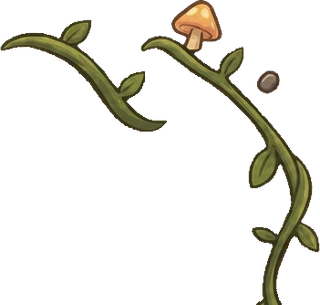
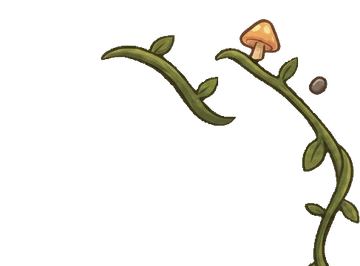
feat: 게임 방법 팻말에 안내 문구·팻말 버튼, 귀퉁이 정렬·1.2배, 폼 판 크기 고정
게임 방법 창
- 팻말에 세 줄을 새겼다 — HOW TO PLAY / 카드 뽑기 → 행동 하기 / 이 두 번이면 끝.
  판 안 첫 줄에 두면 팻말 바로 아래라 머리말이 두 개인 꼴이었다.
  .howto-title-text가 판자의 안쪽 홈(폭 74% / 높이 62%)에만 앉는다 — 넘으면 마구리와
  잎에 글자가 묻힌다
- "이해했어요!"를 PlankButton으로 바꿔 로비·대기실의 다른 버튼들과 맞췄다
- 귀퉁이 크기 1.2배(--howto-orn 132 → 190px, 모바일 84 → 121px)

⚠ 귀퉁이를 각자 내용 경계상자로 바짝 자르면 위쪽 둘의 높이가 어긋난다. 조각마다 크기가
달라지고 원본에서의 상대 위치가 사라지기 때문이다. 넷을 모서리 기준 오프셋을 보존한
공유 캔버스(360×266)로 다시 뽑아 해결했다 — background-size 하나로 넷이 함께 움직인다.
그 대신 캔버스에 빈 여백이 들어 있어 같은 폭이라도 잎이 작게 보이므로, 190px은
그 몫(360/299)에 1.2배를 곱한 값이다.

로비 폼 — 판 크기 고정
max-height만 두면 규칙을 펼칠 때 카드가 405 → 558px로 눈에 띄게 자란다. 높이를 아예
못박아 펼쳐도 판이 1px도 움직이지 않고 스크롤바만 생기게 했다.

⚠ height: 100%로는 안 됐다. 액자(::before)는 카드 상자 밖으로 --board-mt/mb만큼 더
그려진다(원본 PNG의 투명 여백 보정). 카드가 여백을 꽉 채우니 그 몫이 넘쳐 .stage-form에
스크롤바가 생겼다 — 실측 scrollHeight 600 vs clientHeight 590, 정확히 그 차이였다.
calc(100% - var(--board-mt) - var(--board-mb))로 미리 뺀다. 두 값 모두 --board-edge에
비례하므로 액자 두께를 바꿔도 따라온다.

눈으로는 못 찾았다. 실측이 "폼스크롤 YES"를 낸 뒤 세 상자의 client·offset·rect·zoom을
직접 찍어보고서야 액자 오버행이 범인이라는 것이 드러났다.

검증: 실측이 전부 한 값으로 모였다 — 502(1280) / 617(1920) / 517(390). 여섯 칸이 모두
같다는 것이 판이 고정됐다는 증거다. 3뷰포트×7단계 문제 0건(.stage-form 넘침 0).
방 만들기 접힘/펼침에서 판 크기가 완전히 같음을 1440·390에서 재 확인(스크롤 플래그만
false → true). 게임 방법 창도 두 화면에서 열어 확인. 서버 테스트 63/63, 빌드·타입검사 통과.

Changed region(s): [[0.0, 0.0, 1.0, 1.0]]

diff --git a/client/components/ui/HowToPlayModal.tsx b/client/components/ui/HowToPlayModal.tsx
@@ -3,6 +3,7 @@
 import { THRESHOLDS } from 'shared';
 import { SKILL_COLOR } from '@/lib/skillInfo';
 import { LOBBY_ASSETS } from '@/lib/lobbyAssets';
+import { PlankButton } from '@/components/ui/PlankButton';
 import type { Animal } from 'shared';
 
 // ─────────────────────────────────────────────────────────────
@@ -146,15 +147,25 @@ export function HowToPlayModal({ onClose }: { onClose: () => void }) {
           ['--howto-tr' as string]: `url(${LOBBY_ASSETS.howtoCornerTR})`,
           ['--howto-bl' as string]: `url(${LOBBY_ASSETS.howtoCornerBL})`,
           ['--howto-br' as string]: `url(${LOBBY_ASSETS.howtoCornerBR})`,
-          ['--howto-title-w' as string]: 'clamp(220px, 34vw, 380px)',
+          ['--howto-title-w' as string]: 'clamp(300px, 46vw, 560px)',
         }}
         onClick={e => e.stopPropagation()}
       >
-        {/* 제목 팻말 — 판 윗변 한가운데에 걸친다 */}
+        {/* 제목 팻말 — 판 윗변 한가운데에 걸치고, "내 차례에 할 일은 딱 두 번"까지
+            여기에 함께 새긴다. 예전에는 이 문구가 판 안 첫 줄에 있었는데, 팻말 바로
+            아래라 두 덩어리가 따로 노는 머리말이 두 개인 꼴이었다. */}
         <div className="howto-title">
-          <span className="font-black tracking-[0.18em] text-[clamp(0.9rem,2.2vw,1.5rem)] text-[#f6e6c8] drop-shadow-[0_2px_2px_rgba(60,38,20,0.85)]">
-            HOW TO PLAY
-          </span>
+          <div className="howto-title-text">
+            <span className="block font-black tracking-[0.18em] text-[clamp(0.62rem,1.35vw,0.95rem)] text-[#f0dcb4]">
+              HOW TO PLAY
+            </span>
+            <span className="block font-black leading-tight text-[clamp(0.95rem,2.3vw,1.6rem)] text-[#fdf3dd]">
+              카드 뽑기 <span className="text-[#e8c98d]">→</span> 행동 하기
+            </span>
+            <span className="block font-bold leading-tight text-[clamp(0.6rem,1.3vw,0.92rem)] text-[#f0dcb4]">
+              이 두 번이면 내 차례 끝! 🎉
+            </span>
+          </div>
         </div>
 
         <button
@@ -167,17 +178,8 @@ export function HowToPlayModal({ onClose }: { onClose: () => void }) {
           ✕
         </button>
 
+        {/* 머리말은 위 팻말로 올라갔다 — 여기서는 곧바로 네 단계로 들어간다 */}
         <div className="howto-scroll [&>*]:shrink-0">
-        {/* ── 포스터 머리말 — "내 차례에 할 일은 딱 두 번"을 가장 먼저 못박는다 ── */}
-        <header className="text-center pb-4">
-          <div className="flex items-center justify-center gap-3 flex-wrap text-2xl sm:text-3xl font-black">
-            <span className="board-panel text-board-ink px-5 py-2">카드 뽑기</span>
-            <span className="text-board-muted">→</span>
-            <span className="board-panel text-board-ink px-5 py-2">행동 하기</span>
-          </div>
-          <p className="text-board-ink text-lg font-black mt-3">이 두 번이면 내 차례 끝! 🎉</p>
-        </header>
-
         <div className="grid gap-6 lg:grid-cols-3 lg:items-stretch">
           {/* ── 1. 장소를 고른다 ── */}
           <Step no={1} title="장소를 고른다">
@@ -299,13 +301,12 @@ export function HowToPlayModal({ onClose }: { onClose: () => void }) {
             </div>
           </Step>
 
-          <div className="lg:col-span-3">
-            <button
-              onClick={onClose}
-              className="w-full bg-jungle-600 hover:bg-jungle-700 text-white font-black text-xl rounded-2xl py-4 transition-colors"
-            >
+          {/* 로비·대기실의 다른 버튼들과 같은 나무 팻말. 판이 글자 길이를 따라 늘어나므로
+              폭을 가운데로 모으고 상한을 둔다 — 3열 전체를 채우면 팻말이 지나치게 길어진다. */}
+          <div className="lg:col-span-3 flex justify-center">
+            <PlankButton onClick={onClose} className="text-xl px-8" style={{ maxWidth: '26rem' }} block>
               이해했어요! 🎮
-            </button>
+            </PlankButton>
           </div>
         </div>
         </div>

diff --git a/client/app/globals.css b/client/app/globals.css
@@ -2784,8 +2784,18 @@ body {
 
      ⚠ `--form-zoom`으로 나누지 말 것. 요즘 Chrome의 `zoom`은 **퍼센트를 이미 확대분만큼
      보정해서** 해석한다 — 한 번 더 나눴더니 카드가 배율만큼(1.35배) 작아져, 스테이지
-     550px 자리에 413px짜리 카드가 떠 있었다. */
-  max-height: 100%;
+     550px 자리에 413px짜리 카드가 떠 있었다.
+
+     `max-height`가 아니라 `height`인 이유 — 상한만 두면 규칙을 펼칠 때 카드가 405 → 558px로
+     **눈에 띄게 자란다.** 판 크기는 규칙을 펼치든 접든 그대로여야 하고, 넘치는 만큼은
+     스크롤바만 생겨야 한다. 그래서 아예 스테이지 높이에 못박는다.
+
+     ⚠ 100%를 그대로 쓰면 안 된다 — **액자(::before)는 카드 상자 밖으로 --board-mt/mb만큼
+     더 그려진다**(원본 PNG의 투명 여백을 보정하느라). 카드가 여백을 꽉 채우면 그 몫이
+     .stage-form을 넘겨 스크롤바가 생긴다(실측: 스크롤 600 vs 화면 590 = 정확히 그 차이).
+     그래서 위아래 보정분을 미리 빼둔다. 두 값 모두 --board-edge에 비례하므로 액자 두께를
+     바꿔도 따라온다. */
+  height: calc(100% - var(--board-mt) - var(--board-mb));
   display: flex;
   flex-direction: column;
   gap: 0.75rem;
@@ -2872,7 +2882,10 @@ body {
 .howto-board {
   --howto-slice: 110;
   --howto-edge: 46px;
-  --howto-orn: 132px;
+  /* 귀퉁이 그림은 **모서리 기준 오프셋을 보존한 공유 캔버스**(487×360 원본 → 360×266)라,
+     그림 안에 빈 여백이 함께 들어 있다. 그래서 같은 폭이라도 잎 덩어리는 예전(내용을 바짝
+     자른 320px 그림)보다 작게 보인다 — 그 몫(360/299)에 요청받은 1.2배를 곱해 190px이다. */
+  --howto-orn: 190px;
   --howto-overhang: 8px;
   position: relative;
   isolation: isolate;
@@ -2927,6 +2940,20 @@ body {
   justify-content: center;
   pointer-events: none;
 }
+/* 팻말에 새기는 세 줄(HOW TO PLAY / 카드 뽑기 → 행동 하기 / 이 두 번이면 끝).
+   판자 그림의 **안쪽 홈**에만 앉아야 한다 — 좌우로는 마구리(둥근 끝)와 잎이, 위아래로는
+   테두리가 있어 그 위로 넘어가면 글자가 나뭇결에 묻힌다. 폭 74% / 높이 62%가 그 홈이다. */
+.howto-title-text {
+  width: 74%;
+  height: 62%;
+  display: flex;
+  flex-direction: column;
+  align-items: center;
+  justify-content: center;
+  text-align: center;
+  gap: 0.12em;
+  text-shadow: 0 2px 2px rgba(60, 38, 20, 0.85);
+}
 /* 창 안에서 실제로 스크롤하는 부분 — 액자·팻말·귀퉁이는 제자리에 남는다 */
 .howto-scroll {
   flex: 1;
@@ -2936,7 +2963,7 @@ body {
 @media (max-width: 767px) {
   .howto-board {
     --howto-edge: 26px;
-    --howto-orn: 84px;
+    --howto-orn: 121px;   /* 위와 같은 환산(84 × 360/299 × 1.2) */
     --howto-overhang: 4px;
   }
 }

diff --git a/NEXT_SESSION.md b/NEXT_SESSION.md
@@ -180,13 +180,13 @@ upstream의 로비 기능을 이 구조 위에 이식했습니다. 자세한 경
 | 로비 실측 3뷰포트 × 7단계 | 폼 스크롤·페이지 스크롤·화면 이탈 **모두 없음**, 콘솔 에러 없음 |
 | 관전자 스모크(방 만들기→초대 링크로 관전 참가→채팅) | 정상. 시작이 "관전자는 인원에 들어가지 않아요"로 올바르게 막힘 |
 
-로비 실측 기준값 — **폼에 항목을 추가했다면 이 값과 대조하세요.** (2026-09-08 기준 — 규칙 펼침이 **카드 안쪽 스크롤**로 바뀐 뒤)
+로비 실측 기준값 — **폼에 항목을 추가했다면 이 값과 대조하세요.** (2026-09-08 기준 — 판 크기 고정 + 카드 안쪽 스크롤)
 
 | 뷰포트 | 안전영역 | 싱글+규칙 | 방 만들기+규칙 | 방 만들기+충돌 | 방 만들기+관전 | 참가+초대 |
 | --- | --- | --- | --- | --- | --- | --- |
-| 1280×900 | 738×628 | 484×558 | 484×558 | 484×558 | 484×558 | 484×521 |
-| 1920×1080 | 885×754 | 573×683 | 573×683 | 573×683 | 573×683 | 573×616 |
-| 390×844 | 371×589 | 358×538 | 358×538 | 358×538 | 358×538 | 358×374 |
+| 1280×900 | 738×628 | 484×502 | 484×502 | 484×502 | 484×502 | 484×502 |
+| 1920×1080 | 885×754 | 573×617 | 573×617 | 573×617 | 573×617 | 573×617 |
+| 390×844 | 371×589 | 358×517 | 358×517 | 358×517 | 358×517 | 358×517 |
 
 > **방 만들기 세 값(규칙·충돌·관전)이 모두 같아야 합니다.** 충돌 경고와 관전자 안내가
 > 둘 다 설명 줄을 갈아끼우기만 하므로 높이가 늘지 않는다는 뜻입니다. 하나라도 커졌다면
@@ -212,14 +212,17 @@ upstream의 로비 기능을 이 구조 위에 이식했습니다. 자세한 경
 > 전체가 몇 px 움직이므로(방 만들기 404 → 405), **글꼴을 다시 바꾸면 이 표를 반드시
 > 다시 재야 합니다.**
 >
-> ⚠ **규칙을 펼치면 카드가 자라지 않고 "스테이지 높이에서 멈춘 뒤 안쪽이 스크롤"합니다.**
-> 그래서 펼친 세 줄이 뷰포트마다 **같은 값**(558 / 683 / 538)으로 고정돼 있습니다 —
-> 그 값이 곧 그 화면에서 카드가 가질 수 있는 최대 높이입니다.
+> ⚠ **판 크기는 고정입니다 — 규칙을 펼치든 접든, 어느 폼이든 한 화면에서는 같은 값입니다.**
+> 그래서 표의 여섯 칸이 뷰포트마다 전부 같습니다(502 / 617 / 517). 펼치면 카드가 자라는
+> 대신 **안쪽(`.lobby-form-scroll`)에 스크롤바만** 생깁니다.
 >
-> 2026-09-08 오후까지는 카드가 세로로 자라고 `.stage-form`이 통째로 스크롤했는데(849·1003·621),
-> 그러면 **나무 액자까지 함께 밀려 올라가** 판이 화면 밖으로 나갔습니다. 지금은
-> `.lobby-form-board`가 `max-height: 100%`로 멈추고 `.lobby-form-scroll`이 안에서 스크롤합니다.
-> `measureLobby.mjs`는 그 라벨에서 폼 스크롤을 `yes(정상)`으로 표시합니다.
+> 2026-09-08 오후까지는 카드가 세로로 자라고 `.stage-form`이 통째로 스크롤했는데
+> (849·1003·621), 그러면 **나무 액자까지 함께 밀려 올라가** 판이 화면 밖으로 나갔습니다.
+>
+> ⚠ 카드 높이는 `100%`가 아니라 **`calc(100% - var(--board-mt) - var(--board-mb))`** 입니다.
+> 액자(`::before`)가 카드 상자 **밖으로** 그만큼 더 그려지기 때문입니다(원본 PNG의 투명
+> 여백 보정). `100%`로 뒀더니 그 몫이 넘쳐 `.stage-form`이 스크롤했습니다
+> (실측: scrollHeight 600 vs clientHeight 590 = 정확히 그 차이).
 >
 > 진짜 상한은 **규칙을 접은 상태**입니다 — `join+invite`(규칙이 없는 폼)가 그 대표이고,
 > 그쪽에 스크롤이 생기면 실제 문제입니다.
@@ -480,15 +483,35 @@ DOM 순서가 그대로라 화면의 차례도 예전과 같습니다(닉네임 
 > ⚠ **닫기(✕)는 나무테 위에 앉으므로 밝은 색이어야 합니다.** 양피지용 갈색
 > (`text-board-muted`)으로 뒀더니 어두운 나무에 묻혀 보이지 않았습니다.
 
-**그리고 규칙을 펼쳤을 때 카드가 자라지 않습니다.** `.lobby-form-board`가 `max-height: 100%`로
-스테이지 높이에서 멈추고, 새로 만든 `.lobby-form-scroll`이 그 안에서 스크롤합니다. 제출 버튼은
-스크롤 밖에 둬서 규칙을 끝까지 내리지 않아도 늘 눌립니다.
+**그리고 판 크기가 고정입니다.** `.lobby-form-board`의 높이를 스테이지에 못박고, 새로 만든
+`.lobby-form-scroll`이 그 안에서 스크롤합니다. 규칙을 펼쳐도 판은 1px도 움직이지 않고
+스크롤바만 생깁니다. 제출 버튼은 스크롤 밖에 둬서 규칙을 끝까지 내리지 않아도 늘 눌립니다.
 
-> ⚠ **`max-height`를 `--form-zoom`으로 나누지 마세요.** 요즘 Chrome의 `zoom`은 퍼센트를
-> 이미 확대분만큼 보정해 해석합니다 — 한 번 더 나눴더니 카드가 배율만큼(1.35배) 작아져,
+> ⚠ **높이를 `--form-zoom`으로 나누지 마세요.** 요즘 Chrome의 `zoom`은 퍼센트를 이미
+> 확대분만큼 보정해 해석합니다 — 한 번 더 나눴더니 카드가 배율만큼(1.35배) 작아져,
 > 550px 자리에 413px짜리 카드가 떠 있었습니다.
 
+> ⚠ **`100%`가 아니라 `calc(100% - var(--board-mt) - var(--board-mb))`입니다.** 액자가 카드
+> 상자 밖으로 그만큼 더 그려지므로, 꽉 채우면 그 몫이 넘쳐 스크롤바가 생깁니다.
+
 > ⚠ 스크롤 컨테이너의 자식에는 `shrink-0`이 필요합니다(§2-9와 같은 함정).
+
+### 2-15. 게임 방법 창 다듬기 (2026-09-08 밤, 2차)
+
+| 항목 | 내용 |
+| --- | --- |
+| 팻말 문구 | "카드 뽑기 → 행동 하기 / 이 두 번이면 내 차례 끝!"을 **팻말 안으로** 올렸습니다. 판 안 첫 줄에 두면 팻말 바로 아래라 머리말이 두 개인 꼴이었습니다 |
+| 팻말 글자 자리 | `.howto-title-text`가 판자의 **안쪽 홈**(폭 74% / 높이 62%)에만 앉습니다 — 넘으면 마구리와 잎에 글자가 묻힙니다 |
+| 닫기 버튼 | `PlankButton`("이해했어요! 🎮")으로 교체 |
+| 귀퉁이 정렬 | 네 조각을 **모서리 기준 오프셋을 보존한 공유 캔버스**(360×266)로 다시 잘랐습니다 |
+| 귀퉁이 크기 | 1.2배 — `--howto-orn` 132 → **190px**(모바일 84 → 121) |
+
+> ⚠ **귀퉁이를 각자 내용 경계상자로 바짝 자르면 안 됩니다.** 조각마다 크기가 달라지고
+> 원본에서 서로 얼마나 떨어져 있었는지가 사라져 **위쪽 둘의 높이가 어긋납니다**(실제로
+> 그렇게 보였습니다). 지금은 넷이 같은 캔버스라 `background-size` 하나로 함께 움직입니다.
+>
+> 그 대신 그림 안에 빈 여백이 함께 들어 있어, 같은 폭이라도 잎 덩어리는 예전보다 작게
+> 보입니다 — `--howto-orn` 190px은 그 몫(360/299)에 1.2배를 곱한 값입니다.
 
 ---
 

diff --git a/HANDOVER.md b/HANDOVER.md
@@ -906,7 +906,52 @@ NODE_ENV=production NEXT_DIST_DIR=.next-verify PORT=3300 \
 열어 확인했다(판이 화면 안, 팻말이 윗변에 정확히 절반씩, 바깥 스크롤 없음).
 서버 테스트 63/63, 서버·클라이언트 빌드, 루트 `tsc` 통과.
 
-## 17. 작업 기록
+## 17. 판 크기 고정 · 게임 방법 창 다듬기 (2026-09-08 밤, 2차)
+
+### 판 크기를 못박았다 — 펼쳐도 1px도 안 움직인다
+
+§16에서 `max-height: 100%`로 "스테이지를 넘지 않게"만 했는데, 그러면 규칙을 펼칠 때 카드가
+405 → 558px로 **눈에 띄게 자란다.** 요청대로 아예 높이를 고정해, 펼치면 스크롤바만 생기게 했다.
+
+> ⚠ **`height: 100%`로는 안 됐다.** 액자(`::before`)는 카드 상자 **밖으로**
+> `--board-mt`/`--board-mb`만큼 더 그려진다(원본 PNG의 투명 여백을 보정하느라). 카드가
+> 여백을 꽉 채우니 그 몫이 넘쳐 `.stage-form`에 스크롤바가 생겼다 —
+> **실측 scrollHeight 600 vs clientHeight 590, 정확히 그 차이였다.**
+> 그래서 `calc(100% - var(--board-mt) - var(--board-mb))`로 미리 빼둔다. 두 값 모두
+> `--board-edge`에 비례하므로 액자 두께를 바꿔도 따라온다.
+
+이 값을 눈으로는 못 찾았다. 실측이 "폼스크롤 YES"를 낸 뒤 `.stage-form`/`.lobby-form-wrap`/
+`.lobby-form-board`의 client·offset·rect·zoom을 직접 찍어보고서야 액자 오버행이 범인이라는
+것이 드러났다. **이런 종류는 추측하지 말고 세 상자를 한 번에 찍어볼 것.**
+
+실측이 전부 한 값으로 모였다 — 502(1280) / 617(1920) / 517(390). 여섯 칸이 모두 같다는 것이
+"판이 고정됐다"는 증거다.
+
+### 게임 방법 창
+
+- **팻말에 세 줄을 새겼다** — HOW TO PLAY / 카드 뽑기 → 행동 하기 / 이 두 번이면 끝.
+  판 안 첫 줄에 두면 팻말 바로 아래라 머리말이 두 개인 꼴이었다. `.howto-title-text`가
+  판자의 **안쪽 홈**(폭 74% / 높이 62%)에만 앉는다 — 넘으면 마구리와 잎에 글자가 묻힌다
+- **"이해했어요!"를 `PlankButton`으로** 바꿔 로비·대기실의 다른 버튼들과 맞췄다
+- **귀퉁이 넷을 다시 잘랐다** — 아래 참고
+- 귀퉁이 크기 1.2배(`--howto-orn` 132 → 190px, 모바일 84 → 121px)
+
+> ⚠ **귀퉁이를 각자 내용 경계상자로 바짝 자르면 위쪽 둘의 높이가 어긋난다.** 조각마다
+> 크기가 달라지고 원본에서의 상대 위치가 사라지기 때문이다. 넷을 **모서리 기준 오프셋을
+> 보존한 공유 캔버스**(360×266)로 다시 뽑아 해결했다 — `background-size` 하나로 넷이 함께
+> 움직인다. 자세한 방법은 [`client/public/ui/README.md`](client/public/ui/README.md).
+>
+> 캔버스에 빈 여백이 함께 들어 있어 **같은 폭이라도 잎이 예전보다 작게 보인다.**
+> 190px은 그 몫(360/299)에 1.2배를 곱한 값이다.
+
+### 검증
+
+로비 실측 3뷰포트 × 7단계 **문제 0건**(`.stage-form` 넘침 0). 방 만들기 접힘/펼침에서 판
+크기가 완전히 같음을 1440·390에서 실제로 재 확인했다(484×593 → 484×593, 358×538 → 358×538,
+스크롤 플래그만 false → true). 게임 방법 창도 두 화면에서 열어 확인했다.
+서버 테스트 63/63, 서버·클라이언트 빌드, 루트 `tsc` 통과.
+
+## 18. 작업 기록
 
 - `NEXT_SESSION.md` — 새 환경에서 이어받기 위한 환경 구성·현황·다음 할 일
 - `LOBBY_REDESIGN.md` — 설계안 v1/v2, 애니메이션 원칙, 실측 결과, 시행착오

diff --git a/client/public/ui/README.md b/client/public/ui/README.md
@@ -176,7 +176,19 @@ flood fill로 지웠다(글로우 최대치가 110 남짓이라 안전하게 갈
 > 찍혀 있어 그냥 자르면 세로가 488px로 두 배가 됐다. 잎은 팻말에 붙어 있어 같은 덩어리다.
 > (귀퉁이 그림에는 이 규칙을 쓰지 않는다 — 조약돌이 일부러 떨어져 있는 별개 덩어리다.)
 
-네 귀퉁이는 원본 한 장을 **내용 경계상자의 가운데를 기준으로 4분할**해 각각 다시 트리밍했다.
+### 네 귀퉁이는 "공유 캔버스"로 자른다 — 각자 바짝 자르면 안 된다
+
+처음에는 4분할한 뒤 각 조각을 자기 내용 경계상자로 바짝 잘랐다(320×277~305). 그랬더니
+조각마다 크기가 달라지고 **원본에서 서로 얼마나 떨어져 있었는지가 사라져, 화면에 얹었을 때
+위쪽 둘의 높이가 어긋났다.**
+
+지금은 넷을 **같은 크기 캔버스**(원본 487×360 → 저장 360×266)로 뽑고, 각 조각을 자기가 맡을
+모서리에서 **원본과 같은 거리**에 놓는다. 캔버스 크기는 "각 조각이 자기 모서리에서 가장 멀리
+뻗은 거리"의 최댓값이다. `background-position: left top / right top / left bottom / right bottom`
+으로 얹으면 원본 배치가 그대로 재현되고, `background-size` 하나로 넷이 함께 움직인다.
+
+> 그 대신 그림 안에 빈 여백이 함께 들어 있어, **같은 폭이라도 잎 덩어리는 바짝 자른 그림보다
+> 작게 보인다.** 화면 쪽 `--howto-orn` 값은 그 몫(360/299)을 곱해 잡아야 한다.
 
 `howto_board`의 9분할 슬라이스는 **110**이다. 나무 두께 실측은 위 60 / 아래 45 / 좌우 63~64px
 이고, 그 위에 모서리 판자가 서로 겹쳐 튀어나온 부분까지 감싸야 해서 그보다 크게 잡았다.
